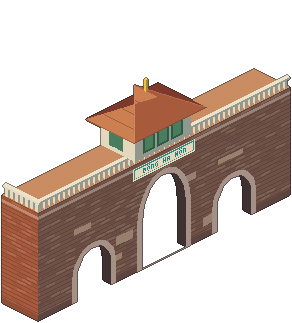
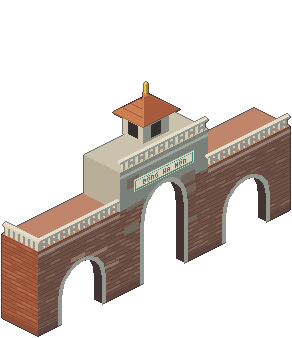
O Quan Chuong redrawn from reference photo: tall centre block, low brick wings with balustrade, see-through arches, no threshold line

Changed region(s): [[0.0, 0.2167, 1.0, 0.9907]]

diff --git a/assets/src/lib/landmarks.js b/assets/src/lib/landmarks.js
@@ -20,41 +20,49 @@ function hipRoof(I, x0, y0, x1, y1, z, rise, near1, near2, far, line) {
   I.line3([x0, y1, z], [x1, y1, z], dark(near2, 0.25)); I.line3([x1, y1, z], [x1, y0, z], dark(near1, 0.25))
 }
 
-// ── Ô Quan Chưởng (Đông Hà Môn): tường gạch vồ, 3 cổng vòm cuốn (giữa to, 2 bên nhỏ), bảng "ĐÔNG HÀ MÔN" trên cổng giữa,
-//    nóc có lan can và vọng lâu 4 mái thu nhỏ đặt ngay trên cổng chính. Cổng xuyên suốt: nền, trời và phố bên kia nhìn thấy qua lòng cổng. ──
+// ── Ô Quan Chưởng (Đông Hà Môn), dựng theo ảnh thật: hai cánh tường gạch đỏ thấp có lan can ô hoa thị và vòm cuốn thấp rộng; khối giữa cao hơn,
+//    trát vữa xám, cổng chính vòm cuốn cao hẹp, bảng "ĐÔNG HÀ MÔN" ngay trên vòm, trên nóc là vọng lâu 4 mái nhỏ. Lòng cổng trong suốt. ──
 DRAW.gate = (cv, s, I) => {
-  const wu = TILE * s.w, du = TILE * s.d, rnd = rngOf(77), Hb = 108
-  const f = faceCols(TCR[2]), PLAST = '#e4d8bc'
-  I.fL(du, 0, wu, 0, Hb, f.left); I.fR(wu, 0, du, 0, Hb, f.right)
-  I.topq(0, wu, 0, du, Hb, mix(TCR[3], RAMP.stone_cream[2], 0.3))
-  brickFace(I, 'R', 0, du, 0, Hb, f.right, rnd, wu, du); brickFace(I, 'L', 0, wu, 0, Hb, f.left, rnd, wu, du)
-  for (let k = 0; k < 14; k++) { const a0 = Math.floor(rnd() * (du - 30)), z0 = 8 + Math.floor(rnd() * 60); I.fR(wu, a0, a0 + 8 + Math.floor(rnd() * 20), z0, z0 + 4 + Math.floor(rnd() * 6), mix(f.right, PLAST, 0.35)) }   // mảng vữa bong tróc
-  I.fR(wu, 0, du, 0, 6, dark(f.right, 0.22)); I.fL(du, 0, wu, 0, 6, dark(f.left, 0.18))                                     // chân đế
-  I.fR(wu, 0, du, Hb - 7, Hb - 4, lite(f.right, 0.3)); I.fL(du, 0, wu, Hb - 7, Hb - 4, lite(f.left, 0.3))                  // gờ phào
+  const wu = TILE * s.w, du = TILE * s.d, rnd = rngOf(77), Hw = 84, Hc = 122, pc = du / 2, c0 = pc - 44, c1 = pc + 44
+  const f = faceCols(TCR[2]), PLAST = '#d9cfb8', fp = faceCols('#b9ae98')
+  // hai cánh + khối giữa
+  I.box(0, 0, 0, wu, du, Hw, null, f)
+  brickFace(I, 'R', 0, du, 0, Hw, f.right, rnd, wu, du); brickFace(I, 'L', 0, wu, 0, Hw, f.left, rnd, wu, du)
+  I.box(0, c0, Hw - 1, wu, c1, Hc, null, fp)
+  brickFace(I, 'R', c0, c1, 0, 34, f.right, rnd, wu, du)
+  for (let k = 0; k < 10; k++) { const a0 = c0 + 2 + Math.floor(rnd() * 70), z0 = 36 + Math.floor(rnd() * 70); I.fR(wu, a0, a0 + 6 + Math.floor(rnd() * 14), z0, z0 + 3 + Math.floor(rnd() * 8), mix(fp.right, f.right, 0.55)) }   // vữa bong, lộ gạch
+  for (let k = 0; k < 12; k++) { const a0 = Math.floor(rnd() * (du - 30)); if (a0 + 12 > c0 && a0 < c1) continue; const z0 = 8 + Math.floor(rnd() * 56); I.fR(wu, a0, a0 + 8 + Math.floor(rnd() * 16), z0, z0 + 3 + Math.floor(rnd() * 5), mix(f.right, PLAST, 0.3)) }
+  I.fR(wu, 0, du, 0, 6, dark(f.right, 0.22)); I.fL(du, 0, wu, 0, 6, dark(f.left, 0.18))
+  I.fR(wu, c0, c1, Hc - 7, Hc - 4, lite(fp.right, 0.3)); I.fR(wu, 0, c0, Hw - 6, Hw - 3, lite(f.right, 0.28)); I.fR(wu, c1, du, Hw - 6, Hw - 3, lite(f.right, 0.28))
   const arch = (yc, hw, zs, zt, col) => {
     const pts = [[wu, yc + hw, 0], [wu, yc + hw, zs]]
     for (let t = 0; t <= 14; t++) { const a = t / 14 * Math.PI; pts.push([wu, yc + hw * Math.cos(a), zs + (zt - zs) * Math.sin(a)]) }
     pts.push([wu, yc - hw, zs], [wu, yc - hw, 0]); cv.poly(pts.map((p) => I.P(...p)), col)
   }
-  const OPEN = '#ff00ff', holes = [[du / 2, 22, 46, 84], [56, 17, 24, 46], [du - 56, 17, 24, 46]]
-  for (const [yc, hw, zs, zt] of holes) arch(yc, hw + 5, zs, zt + 5, lite(f.right, 0.38))                                        // viền vòm cuốn
+  const OPEN = '#ff00ff', holes = [[pc, 20, 58, 90], [44, 20, 26, 52], [du - 44, 20, 26, 52]]
+  for (const [yc, hw, zs, zt] of holes) arch(yc, hw + 4, zs, zt + 4, lite(fp.right, 0.2))
   for (const [yc, hw, zs, zt] of holes) arch(yc, hw, zs, zt, OPEN)
-  // bảng "ĐÔNG HÀ MÔN" đắp nổi mảnh sứ xanh, ngay trên vòm cổng chính, dưới vọng lâu
-  const pc = du / 2, tw = textLen('ĐÔNG HÀ MÔN')
-  I.fR(wu, pc - 31, pc + 31, 92, 104, lite(PLAST, 0.1)); I.fR(wu, pc - 30, pc + 30, 93, 103, '#2f8f86'); I.fR(wu, pc - 29, pc + 29, 94, 102, PLAST)
-  drawText(I, 'R', wu, pc + tw / 2, 95, 'ĐÔNG HÀ MÔN', '#2a7f78')
-  // lan can nóc (ô hoa thị / tứ giác) + vọng lâu 4 mái thu nhỏ ngay trên cổng chính
-  const rail = (F) => { for (let a = 2; a < (F === 'R' ? du : wu) - 2; a += 5) { if (F === 'R') I.box(wu - 3, a, Hb, wu - 1, a + 2.5, Hb + 8, null, faceCols(PLAST)); else I.box(a, du - 3, Hb, a + 2.5, du - 1, Hb + 8, null, faceCols(PLAST)) } }
-  rail('R'); rail('L')
-  I.box(wu - 3.5, 0, Hb + 8, wu - 0.5, du, Hb + 10, null, faceCols(lite(PLAST, 0.1))); I.box(0, du - 3.5, Hb + 8, wu, du - 0.5, Hb + 10, null, faceCols(lite(PLAST, 0.1)))
-  const z1 = Hb + 2, bw = 34, by0 = pc - 28, by1 = pc + 28, wf = faceCols(PLAST)
-  I.box((wu - bw) / 2, by0, z1, (wu + bw) / 2, by1, z1 + 26, null, wf)
-  for (const a of [by0 + 8, pc - 6, by1 - 20]) { I.fR((wu + bw) / 2, a, a + 12, z1 + 4, z1 + 22, RAMP.moss_shutter[1]); I.fR((wu + bw) / 2, a + 2, a + 10, z1 + 6, z1 + 20, RAMP.moss_shutter[2]) }
-  for (const a of [(wu - bw) / 2 + 8, wu / 2 - 4]) I.fL(by1, a, a + 9, z1 + 4, z1 + 22, RAMP.moss_shutter[2])
-  const z2 = z1 + 26
-  hipRoof(I, (wu - bw) / 2 - 7, by0 - 8, (wu + bw) / 2 + 7, by1 + 8, z2, 22, TCR[2], TCR[3], TCR[1], dark(TCR[3], 0.28))
-  I.post(wu / 2, pc, z2 + 22, z2 + 34, 2, RAMP.sun_yellow[2])
-  // lòng cổng trong suốt (thấy nền, phố, người phía sau); chỉ giữ một dải má cổng mỏng bên phải để thấy độ dày tường
+  // bảng "ĐÔNG HÀ MÔN" (mảnh sứ xanh) ngay trên vòm cổng chính
+  const tw = textLen('ĐÔNG HÀ MÔN')
+  I.fR(wu, pc - 30, pc + 30, 96, 108, lite(PLAST, 0.1)); I.fR(wu, pc - 29, pc + 29, 97, 107, '#2f8f86'); I.fR(wu, pc - 28, pc + 28, 98, 106, PLAST)
+  drawText(I, 'R', wu, pc + tw / 2, 99, 'ĐÔNG HÀ MÔN', '#2a7f78')
+  // lan can ô hoa thị: dọc hai cánh (cao Hw) và quanh khối giữa (cao Hc)
+  const rail = (z, y0, y1) => {
+    for (let a = y0 + 2; a < y1 - 2; a += 5) I.box(wu - 3, a, z, wu - 1, a + 2.5, z + 8, null, faceCols(PLAST))
+    I.box(wu - 3.5, y0, z + 8, wu - 0.5, y1, z + 10, null, faceCols(lite(PLAST, 0.1)))
+    for (let a = y0 + 4; a < y1 - 6; a += 10) I.fR(wu - 0.5, a, a + 4, z + 3, z + 6, dark(PLAST, 0.35))
+  }
+  rail(Hw, 0, c0); rail(Hw, c1, du); rail(Hc, c0, c1)
+  for (const [y0, y1] of [[0, c0], [c1, du]]) for (let a = 2; a < wu - 2; a += 5) I.box(a, du - 3, Hw, a + 2.5, du - 1, Hw + 8, null, faceCols(PLAST))
+  I.box(0, du - 3.5, Hw + 8, wu, du - 0.5, Hw + 10, null, faceCols(lite(PLAST, 0.1)))
+  // vọng lâu 4 mái nhỏ trên khối giữa
+  const z1 = Hc + 10, bw = 20, tx0 = (wu - bw) / 2, tx1 = (wu + bw) / 2, tf = faceCols('#cfc5ae')
+  I.box(tx0, pc - 13, z1, tx1, pc + 13, z1 + 22, null, tf)
+  I.fR(tx1, pc - 5, pc + 5, z1 + 2, z1 + 15, mix(INK, '#6a5a48', 0.35))
+  I.fL(pc + 13, tx0 + 5, tx0 + 15, z1 + 2, z1 + 15, mix(INK, '#6a5a48', 0.35))
+  hipRoof(I, tx0 - 5, pc - 18, tx1 + 5, pc + 18, z1 + 22, 17, TCR[2], TCR[3], TCR[1], dark(TCR[3], 0.28))
+  I.post(wu / 2, pc, z1 + 39, z1 + 49, 2, RAMP.sun_yellow[2])
+  cv.outline(0.5)                                                                   // viền trước, rồi mới khoét lòng cổng (không có vạch ngang ở ngưỡng cửa)
   const wallCol = (k) => mix(dark(f.right, 0.35), INK, 0.25 + 0.1 * k)
   const hwAt = ([, hw, zs, zt], z) => z <= zs ? hw : z >= zt ? 0 : hw * Math.sqrt(1 - ((z - zs) / (zt - zs)) ** 2)
   for (let y = 0; y < cv.h; y++) for (let x = 0; x < cv.w; x++) {
@@ -63,9 +71,10 @@ DRAW.gate = (cv, s, I) => {
     const h = holes.reduce((best, q) => (Math.abs(Y - q[0]) < Math.abs(Y - best[0]) ? q : best))
     let hit = false
     for (let t = 1; t <= 9 && t <= z; t++) { if (Math.abs(Y - t - h[0]) > hwAt(h, z - t) + 0.01) { hit = true; break } }
-    if (hit) cv.set(x, y, wallCol(Math.min(1, (wu - (Y - h[0] + h[1]) / 2) / wu))); else cv.set(x, y, null)
+    cv.set(x, y, hit ? wallCol(0.5) : null)                                          // chỉ giữ dải má cổng mỏng; còn lại trong suốt
   }
-  cv.outline(0.5)
+  const BAD = dark(OPEN, 0.5)                                                      // viền sinh ra quanh pixel lòng cổng: bỏ
+  for (let y = 0; y < cv.h; y++) for (let x = 0; x < cv.w; x++) if (cv.get(x, y) === BAD) cv.set(x, y, null)
 }
 
 // ── cầu Thê Húc: đoạn cầu gỗ đỏ dọc trục x, rộng 2 ô ──

diff --git a/js/world.js b/js/world.js
@@ -208,7 +208,7 @@ const World = (() => {
   function genGate() {                                         // Ô Quan Chưởng nằm giữa phố đi bộ: hai bên đều là chợ đêm / ẩm thực
     const gx = 24, gy = CORRY[PED][0]
     mark(gx, gy, 1, 7, false)
-    for (const [a0, a1] of [[0, 1.083], [2.028, 2.889], [4.111, 4.972], [5.917, 7]]) {                    // chỉ các trụ tường chặn: đi bộ qua được cả 3 cổng (giữa + 2 ô nhỏ)
+    for (const [a0, a1] of [[0, 0.667], [1.778, 2.944], [4.056, 5.222], [6.333, 7]]) {                    // chỉ các trụ tường chặn: đi bộ qua được cả 3 cổng (giữa + 2 ô nhỏ)
       const n = Math.max(2, Math.ceil((a1 - a0 - 0.4) / 0.35) + 1)
       for (let i = 0; i < n; i++) for (const dx of [0.2, 0.5, 0.8]) colliders.push({ x: gx + dx, y: gy + a0 + 0.2 + (a1 - a0 - 0.4) * i / (n - 1), r: 0.2 })
     }

diff --git a/index.html b/index.html
@@ -14,7 +14,7 @@
 <canvas id="c"></canvas>
 <div id="hud">đang tải…</div>
 <script src="js/player.js?v=8"></script>
-<script src="js/world.js?v=12"></script>
+<script src="js/world.js?v=13"></script>
 <script>
 (async () => {
   try { await World.load(); World.generate(); World.start(document.getElementById('c'), document.getElementById('hud')) }
